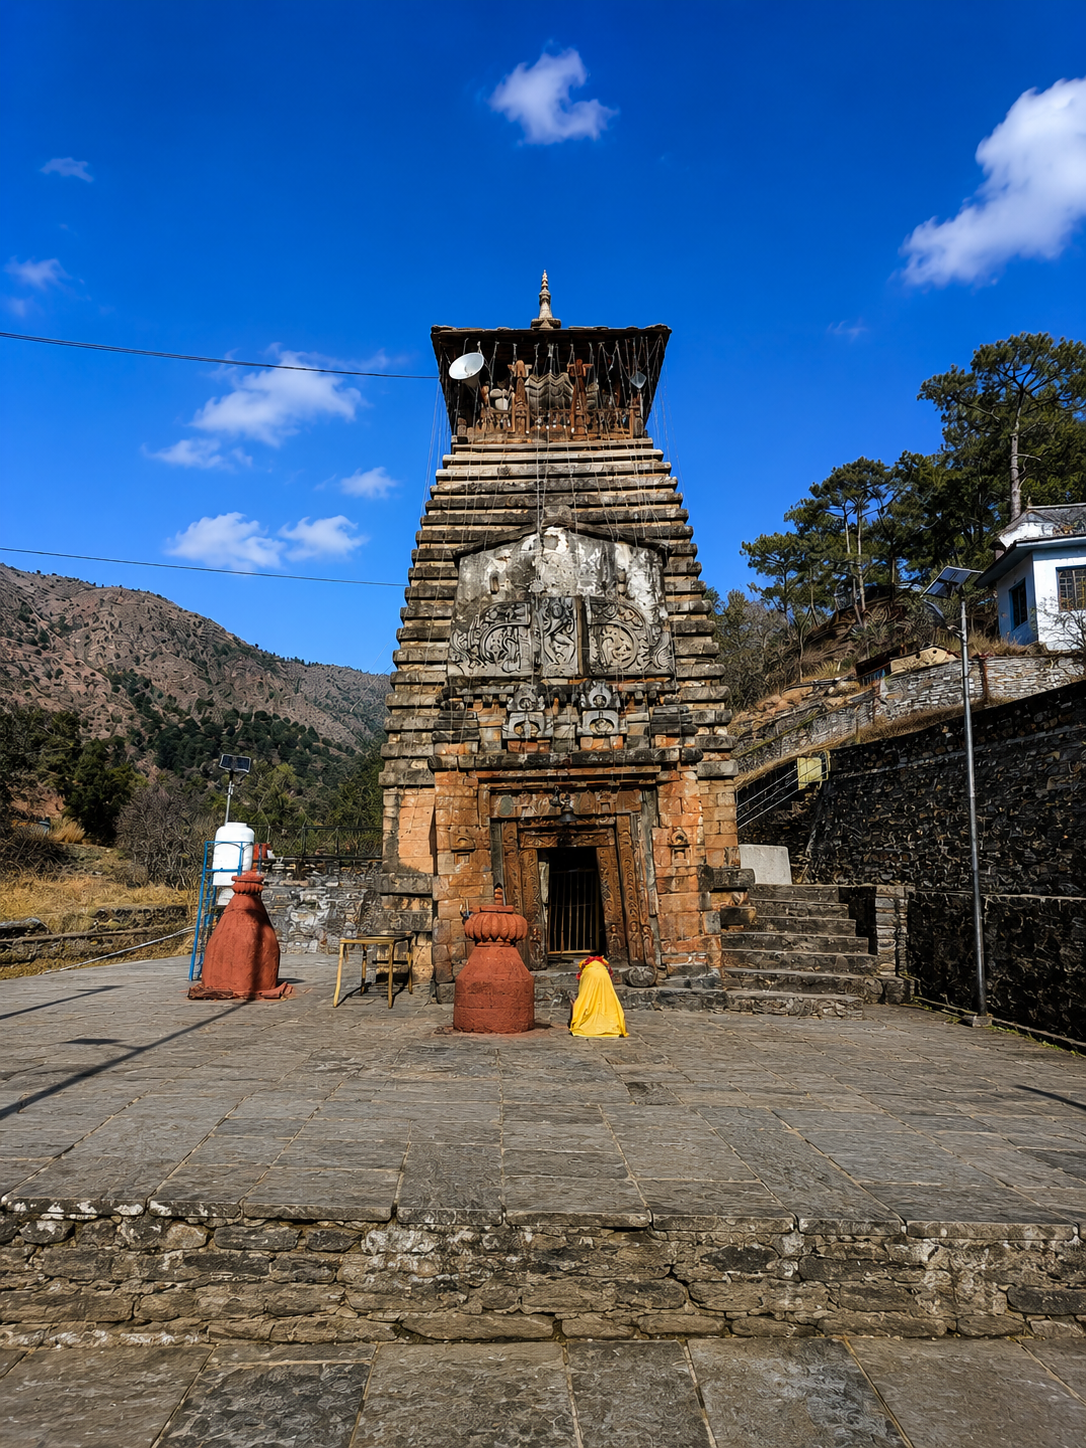
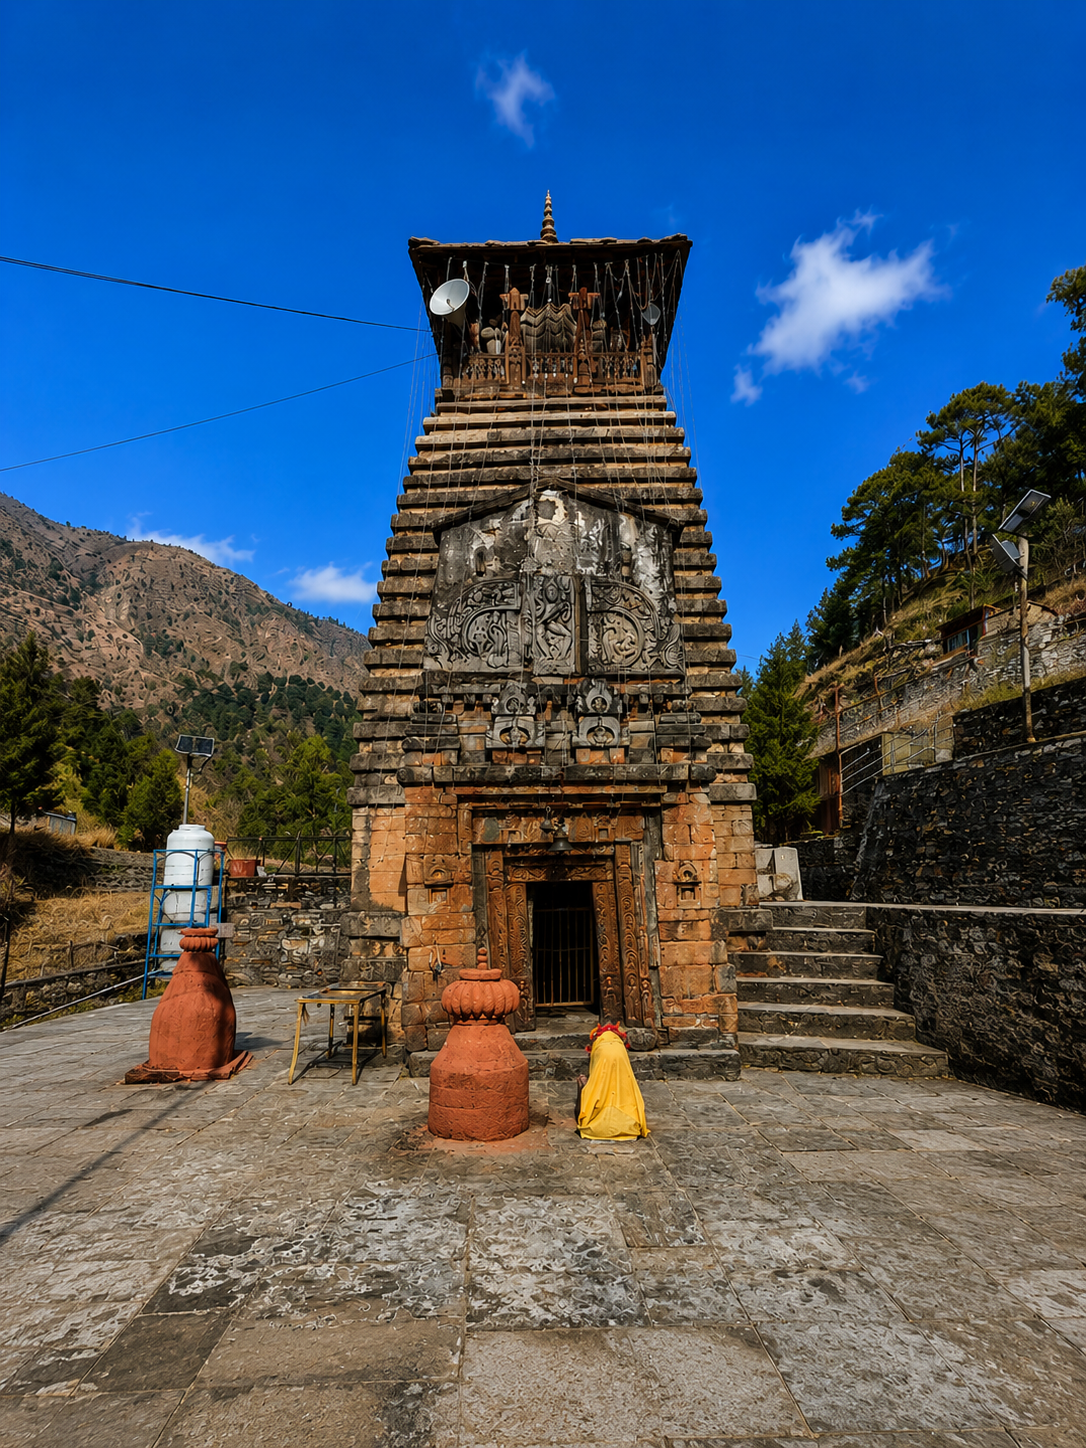
Update design

diff --git a/src/components/Viewpoints/Viewpoints.js b/src/components/Viewpoints/Viewpoints.js
@@ -42,21 +42,21 @@ const viewpointsData = [
   {
     id: 5,
     title: 'Kausani',
-    distance: '35 km • 48 min drive',
+    distance: '35 km • 58 min drive',
     description: 'Panoramic Himalayan Retreat. Admire spectacular Himalayan vistas, lush tea gardens, and breathtaking sunrises in this peaceful hill station.',
     image: imgKausani
   },
   {
     id: 6,
     title: 'Dol Ashram',
-    distance: '40 km • 60 min drive',
+    distance: '35 km • 60 min drive',
     description: 'Peace, Yoga & Spiritual Retreat. Reconnect through yoga, meditation, spiritual teachings, and serene Himalayan surroundings in a peaceful ashram setting.',
     image: imgDolAshram
   },
   {
     id: 7,
     title: 'Nainital',
-    distance: '32 km • 1 hr 20 min drive',
+    distance: '32 km • 50 Minutes drive',
     description: 'The Jewel of Kumaon. Enjoy boating on Naini Lake, vibrant Mall Road, scenic viewpoints, and charming cafés surrounded by green hills.',
     image: imgNainital
   }